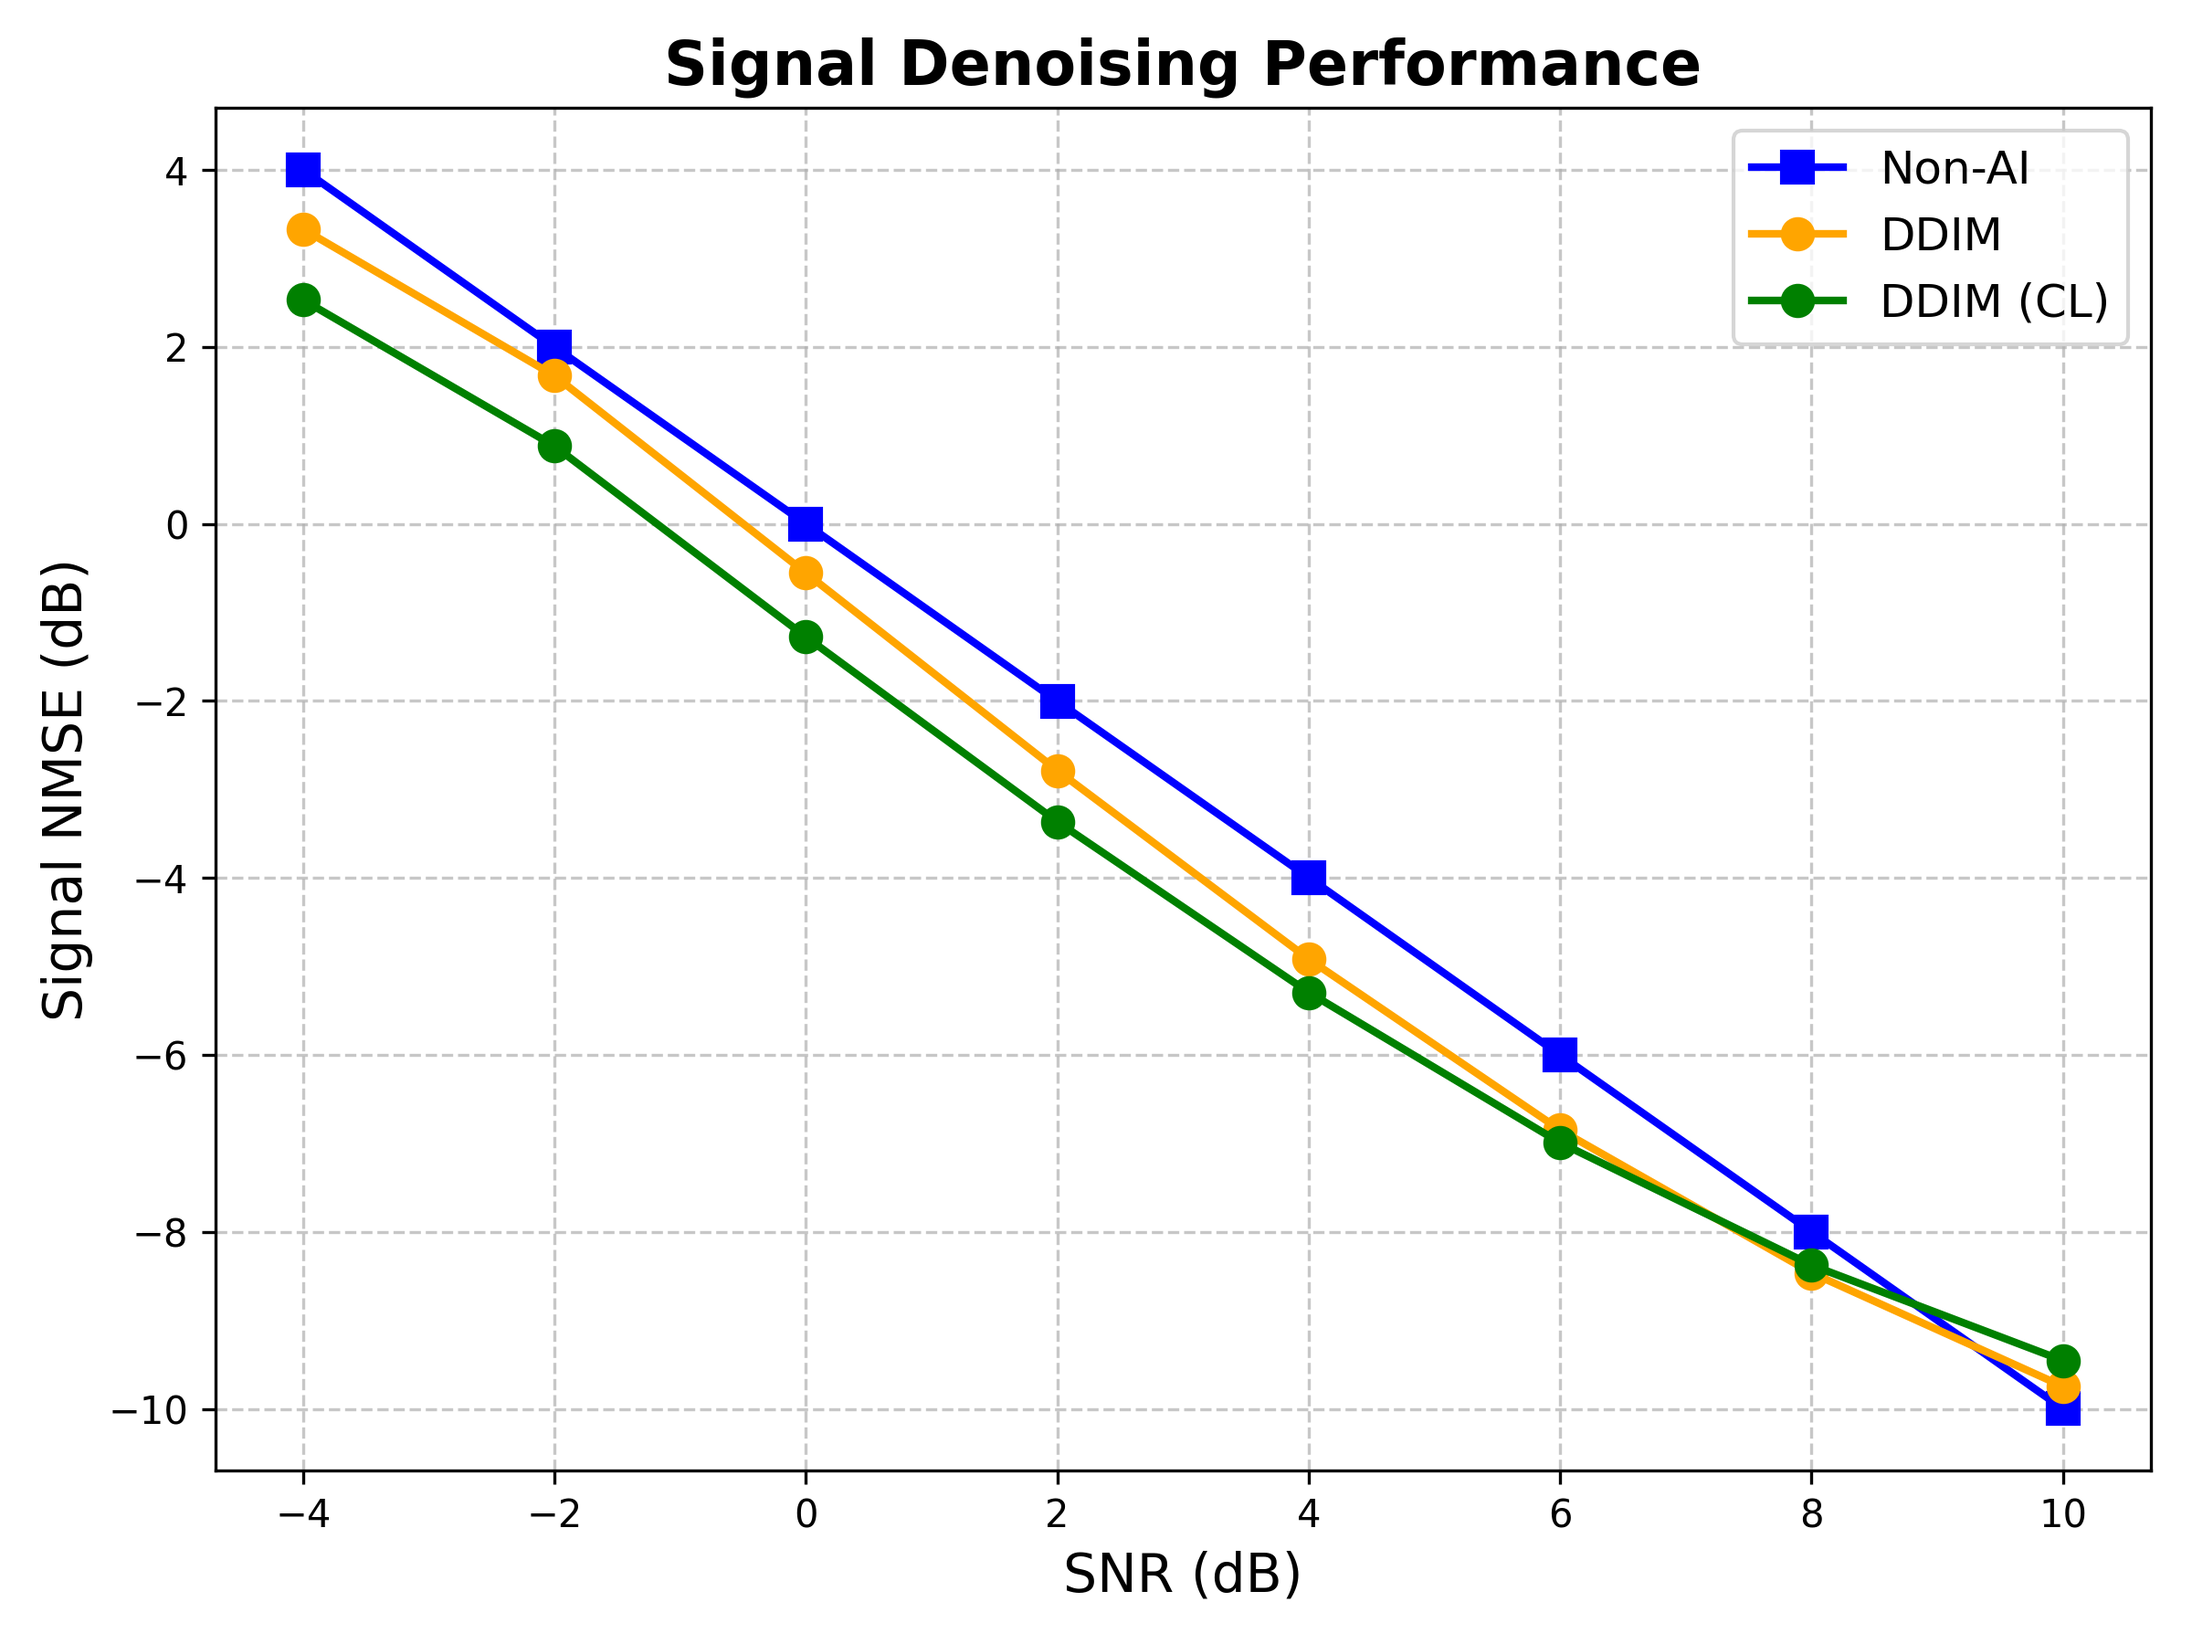
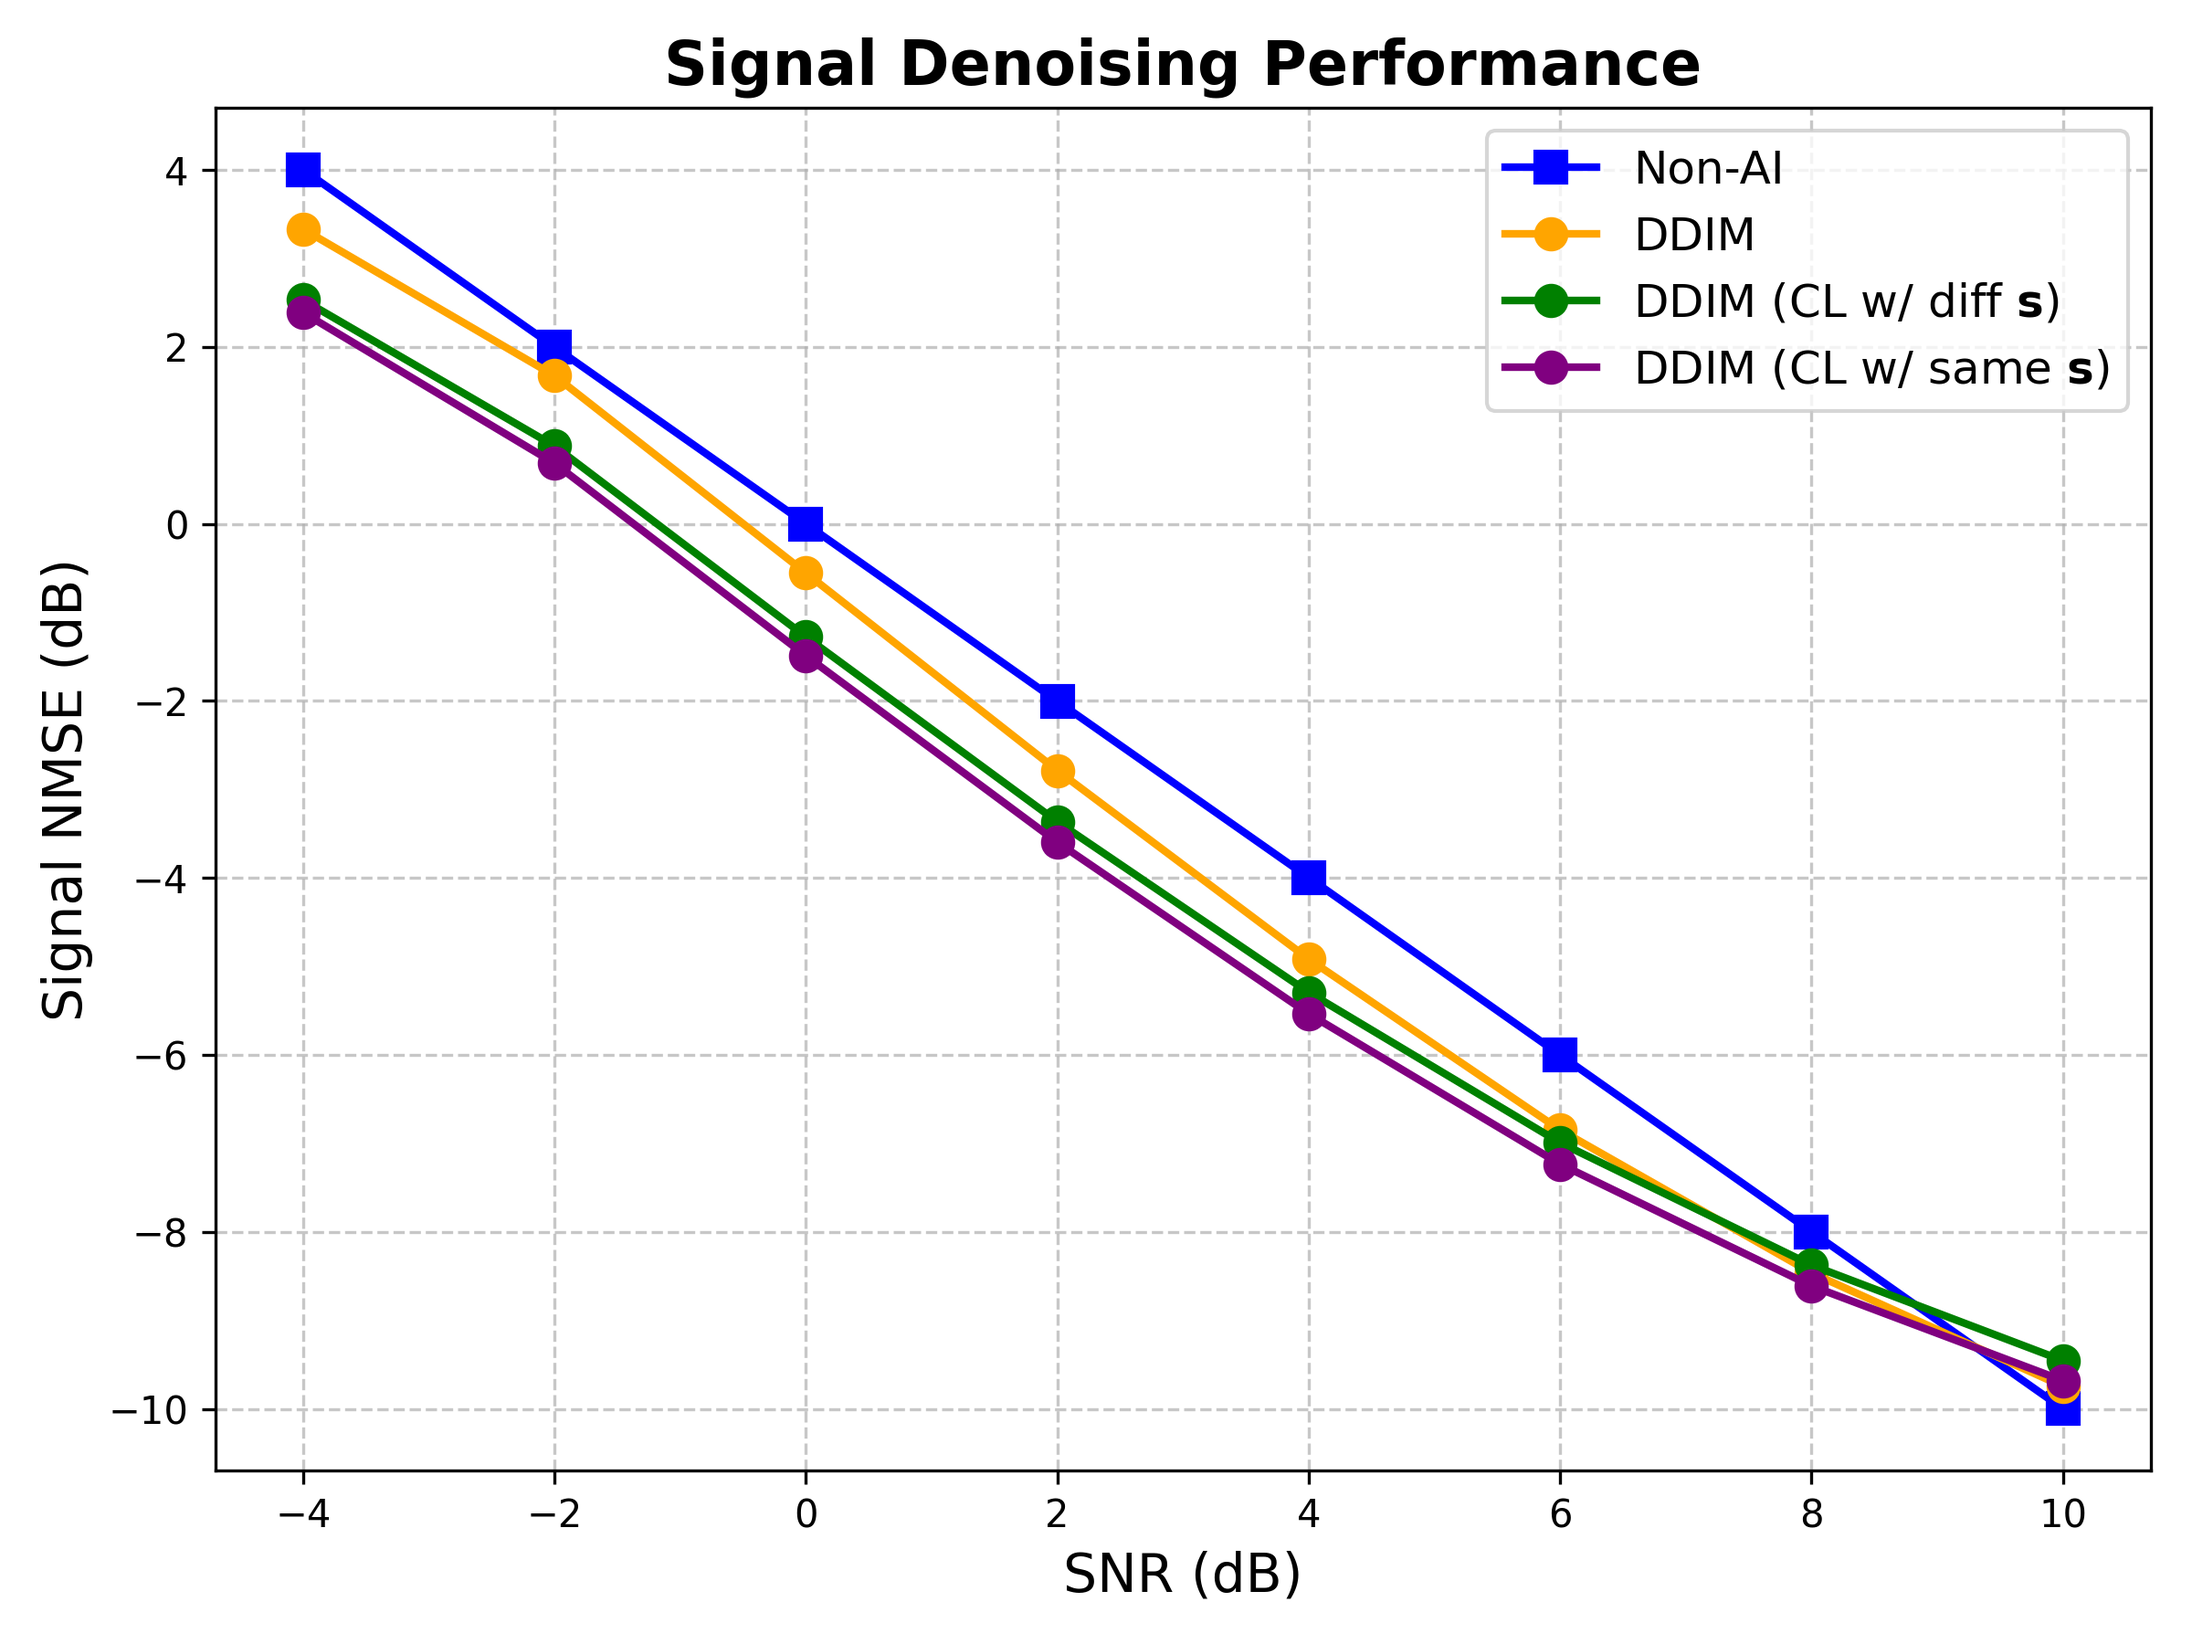
fix(cl): implement Gaussian-augmented positive pairs for InfoNCE
- Redefined positive pairs: Switched from multi-snapshot pairs to single-source
  augmentation. Positive pairs are now created by adding different Gaussian
  noise realizations to the same underlying signal (x0).
- Negative pairs: Retained different scenario samples as negative examples.
- Results:
    * Achieved improved training loss (`0.148999`).
    * Noted better overall NMSE for both MCM and DOA across mid-low SNR.
    * Observation: DOA performance at high SNR (10dB) shows a slight regression,
      likely due to the augmentation noise level interfering with phase precision.

diff --git a/sim2/DDIM/train.py b/sim2/DDIM/train.py
@@ -108,11 +108,12 @@ def train_epsilon_net(Xs, model_type='mlp', num_epochs=5, batch_size=64, lr=1e-3
             # idx_1, idx_2: (Batch,)
             idx_1 = torch.randint(0, Lloc, (current_bs,), device=device)
             # Ensure idx_2 is different from idx_1 (simple shift)
-            idx_2 = (idx_1 + torch.randint(1, Lloc, (current_bs,), device=device)) % Lloc
+            idx_2 = idx_1
 
             # Extract Views: train_data_norm is (Train_S, L, 2N)
+            perturbation_scale = 0.01
             x0_view1 = train_data_norm[batch_scenarios, idx_1, :] # (Batch, 2N)
-            x0_view2 = train_data_norm[batch_scenarios, idx_2, :] # (Batch, 2N)
+            x0_view2 = train_data_norm[batch_scenarios, idx_2, :] + perturbation_scale * torch.randn_like(x0_view1)
 
             # Sample t (Same t for both views is standard for contrastive diffusion)
             t_cont = torch.rand(current_bs, device=device) * T

diff --git a/sim2/DDIM/test_results/NMSE_plot.py b/sim2/DDIM/test_results/NMSE_plot.py
@@ -10,8 +10,9 @@ import numpy as np
 # load .mat files to plot
 FILES = {
     "Non-AI": "NMSE_Baseline_non_AI.mat",
-    "DDIM":        "NMSE_CL0e+00_temp2e-01_mlplr1e-03.mat",
-    "DDIM (CL)" :  "NMSE_CL1e-01_temp2e-01_mlp_lr1e-03.mat",
+    "DDIM":  "NMSE_CL0e+00_temp2e-01_mlplr1e-03.mat",
+    "DDIM (CL w/ diff $\mathbf{s}$)" :  "NMSE_CL1e-01_temp2e-01_mlp_lr1e-03.mat",
+    "DDIM (CL w/ same $\mathbf{s}$)" :  "NMSE_CL1e-01_same_x0_temp2e-01_mlp_lr1e-03.mat",
     
 }
 
@@ -32,8 +33,15 @@ STYLES = {
         'linewidth': 2, 
         'markersize': 8
     },
-    "DDIM (CL)": {
+    "DDIM (CL w/ diff $\mathbf{s}$)": {
         'color': 'green', 
+        'marker': 'o', 
+        'linestyle': '-',  
+        'linewidth': 2, 
+        'markersize': 8
+    },
+    "DDIM (CL w/ same $\mathbf{s}$)": {
+        'color': 'purple', 
         'marker': 'o', 
         'linestyle': '-',  
         'linewidth': 2, 

diff --git a/sim2/DDIM/main.py b/sim2/DDIM/main.py
@@ -33,7 +33,7 @@ GUIDANCE_LAMBDA=1.1
 
 # testing settings
 TEST_BATCH_SIZE = 3000
-MODEL_WEIGHT_FILE_NAME = f"CL{contrastive_weight:.0e}_temp{temperature:.0e}_{MODEL_TYPE}_lr{LR:.0e}.pth"
+MODEL_WEIGHT_FILE_NAME = f"CL{contrastive_weight:.0e}_same_x0_temp{temperature:.0e}_{MODEL_TYPE}_lr{LR:.0e}.pth"
 NMSE_RESULT_FILE_NAME = f"NMSE_{MODEL_WEIGHT_FILE_NAME.split('.')[0]}.mat"
 
 # -----------------------------
